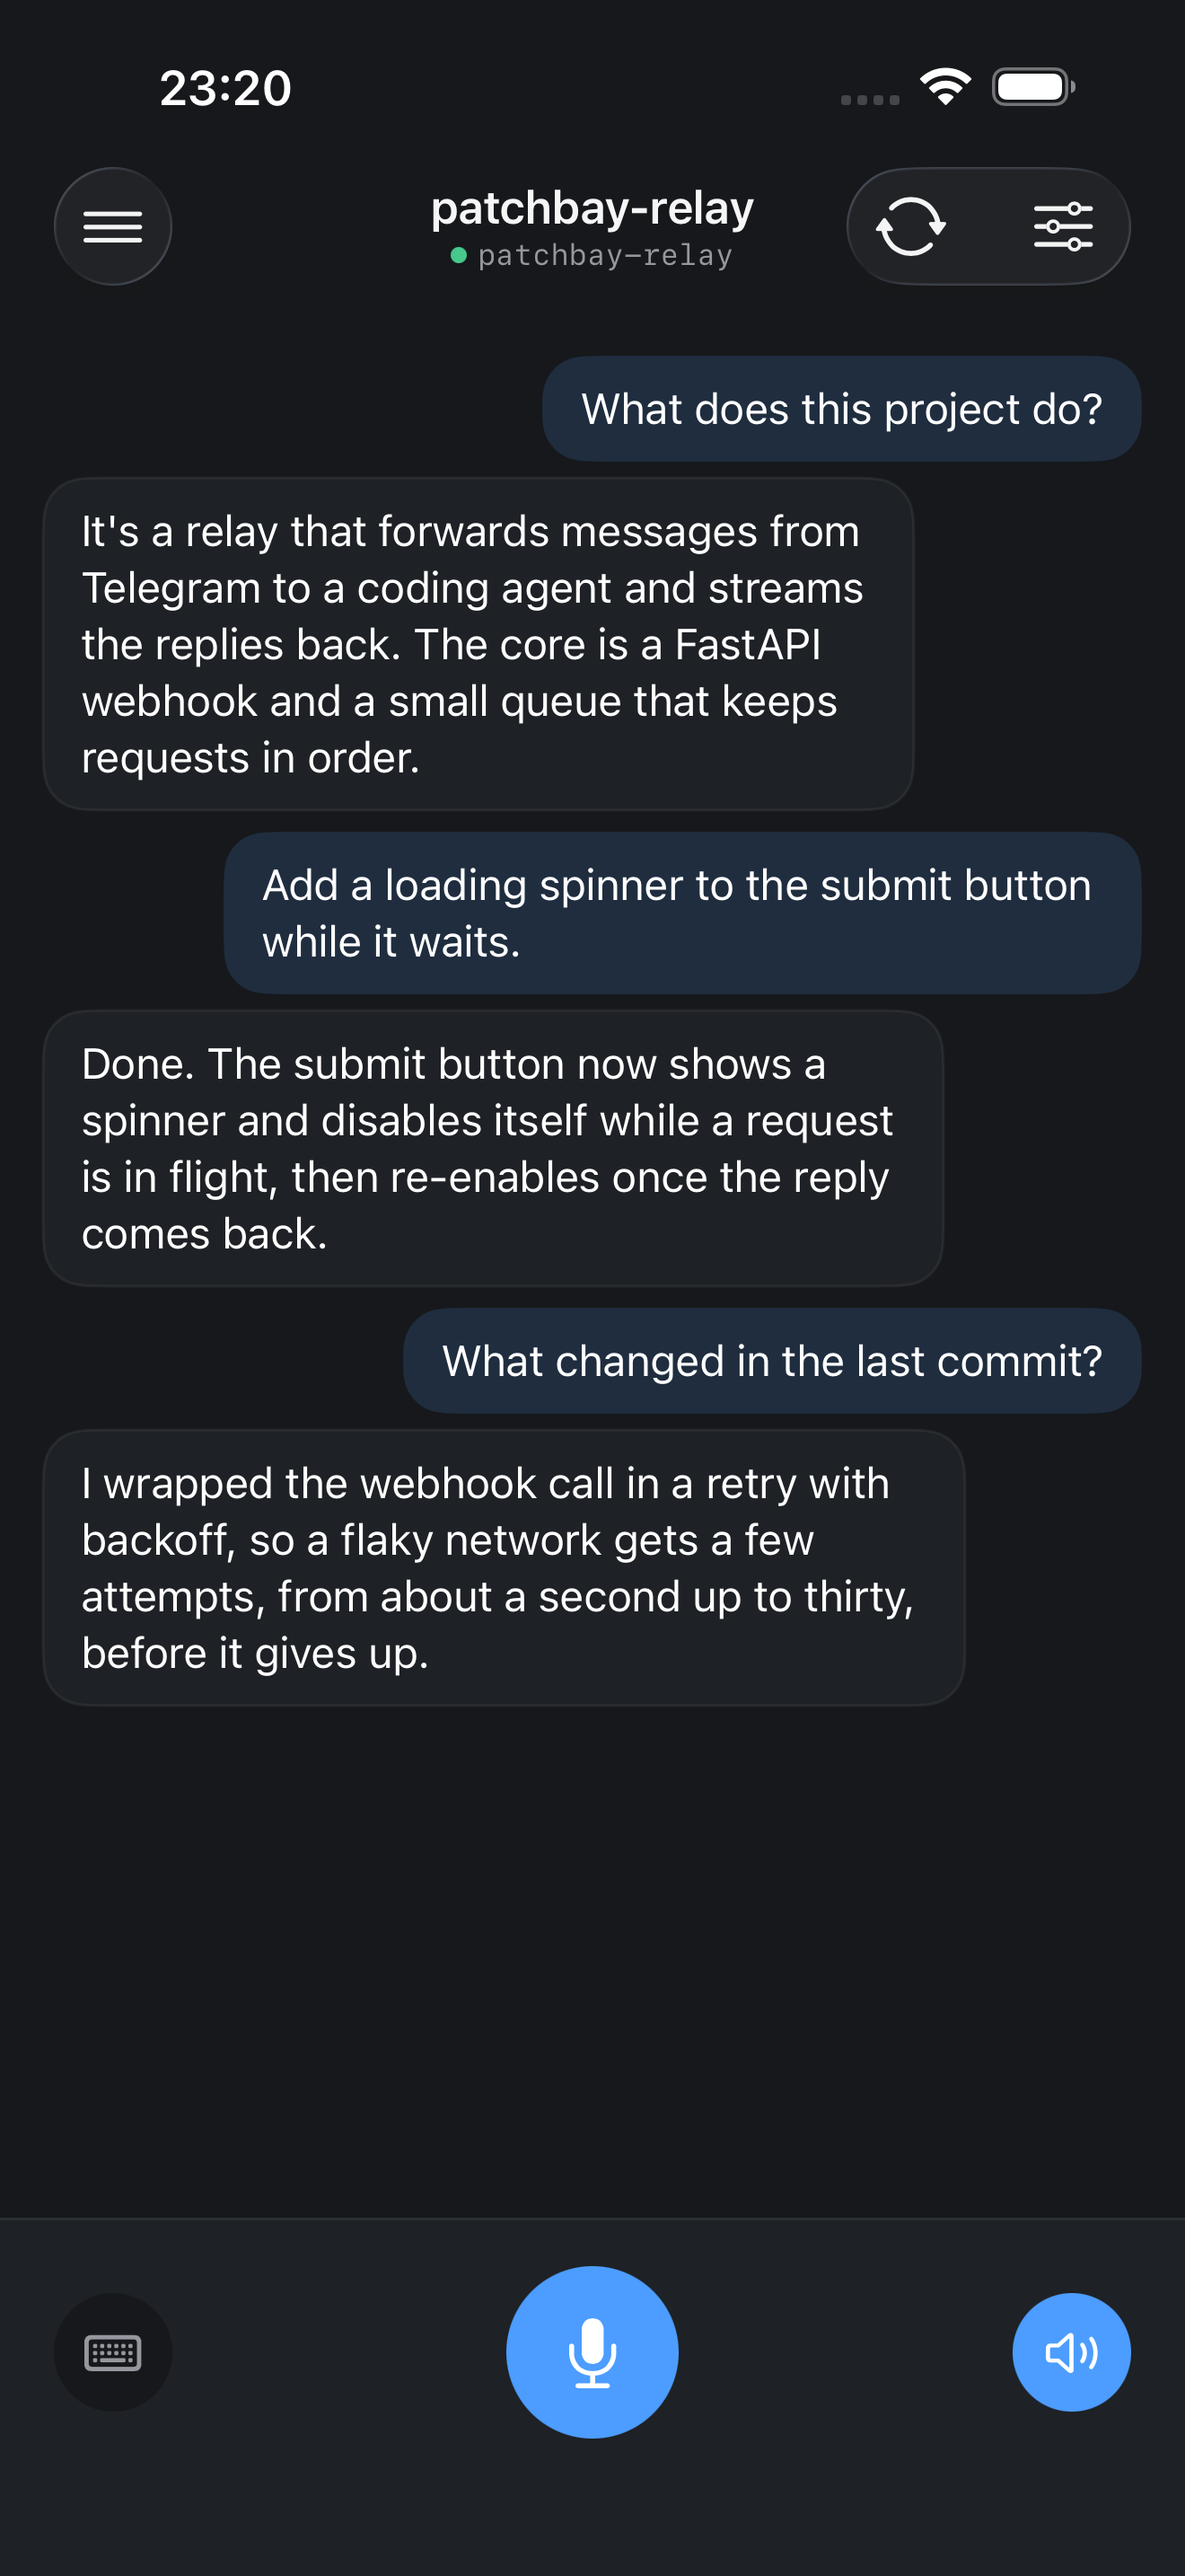
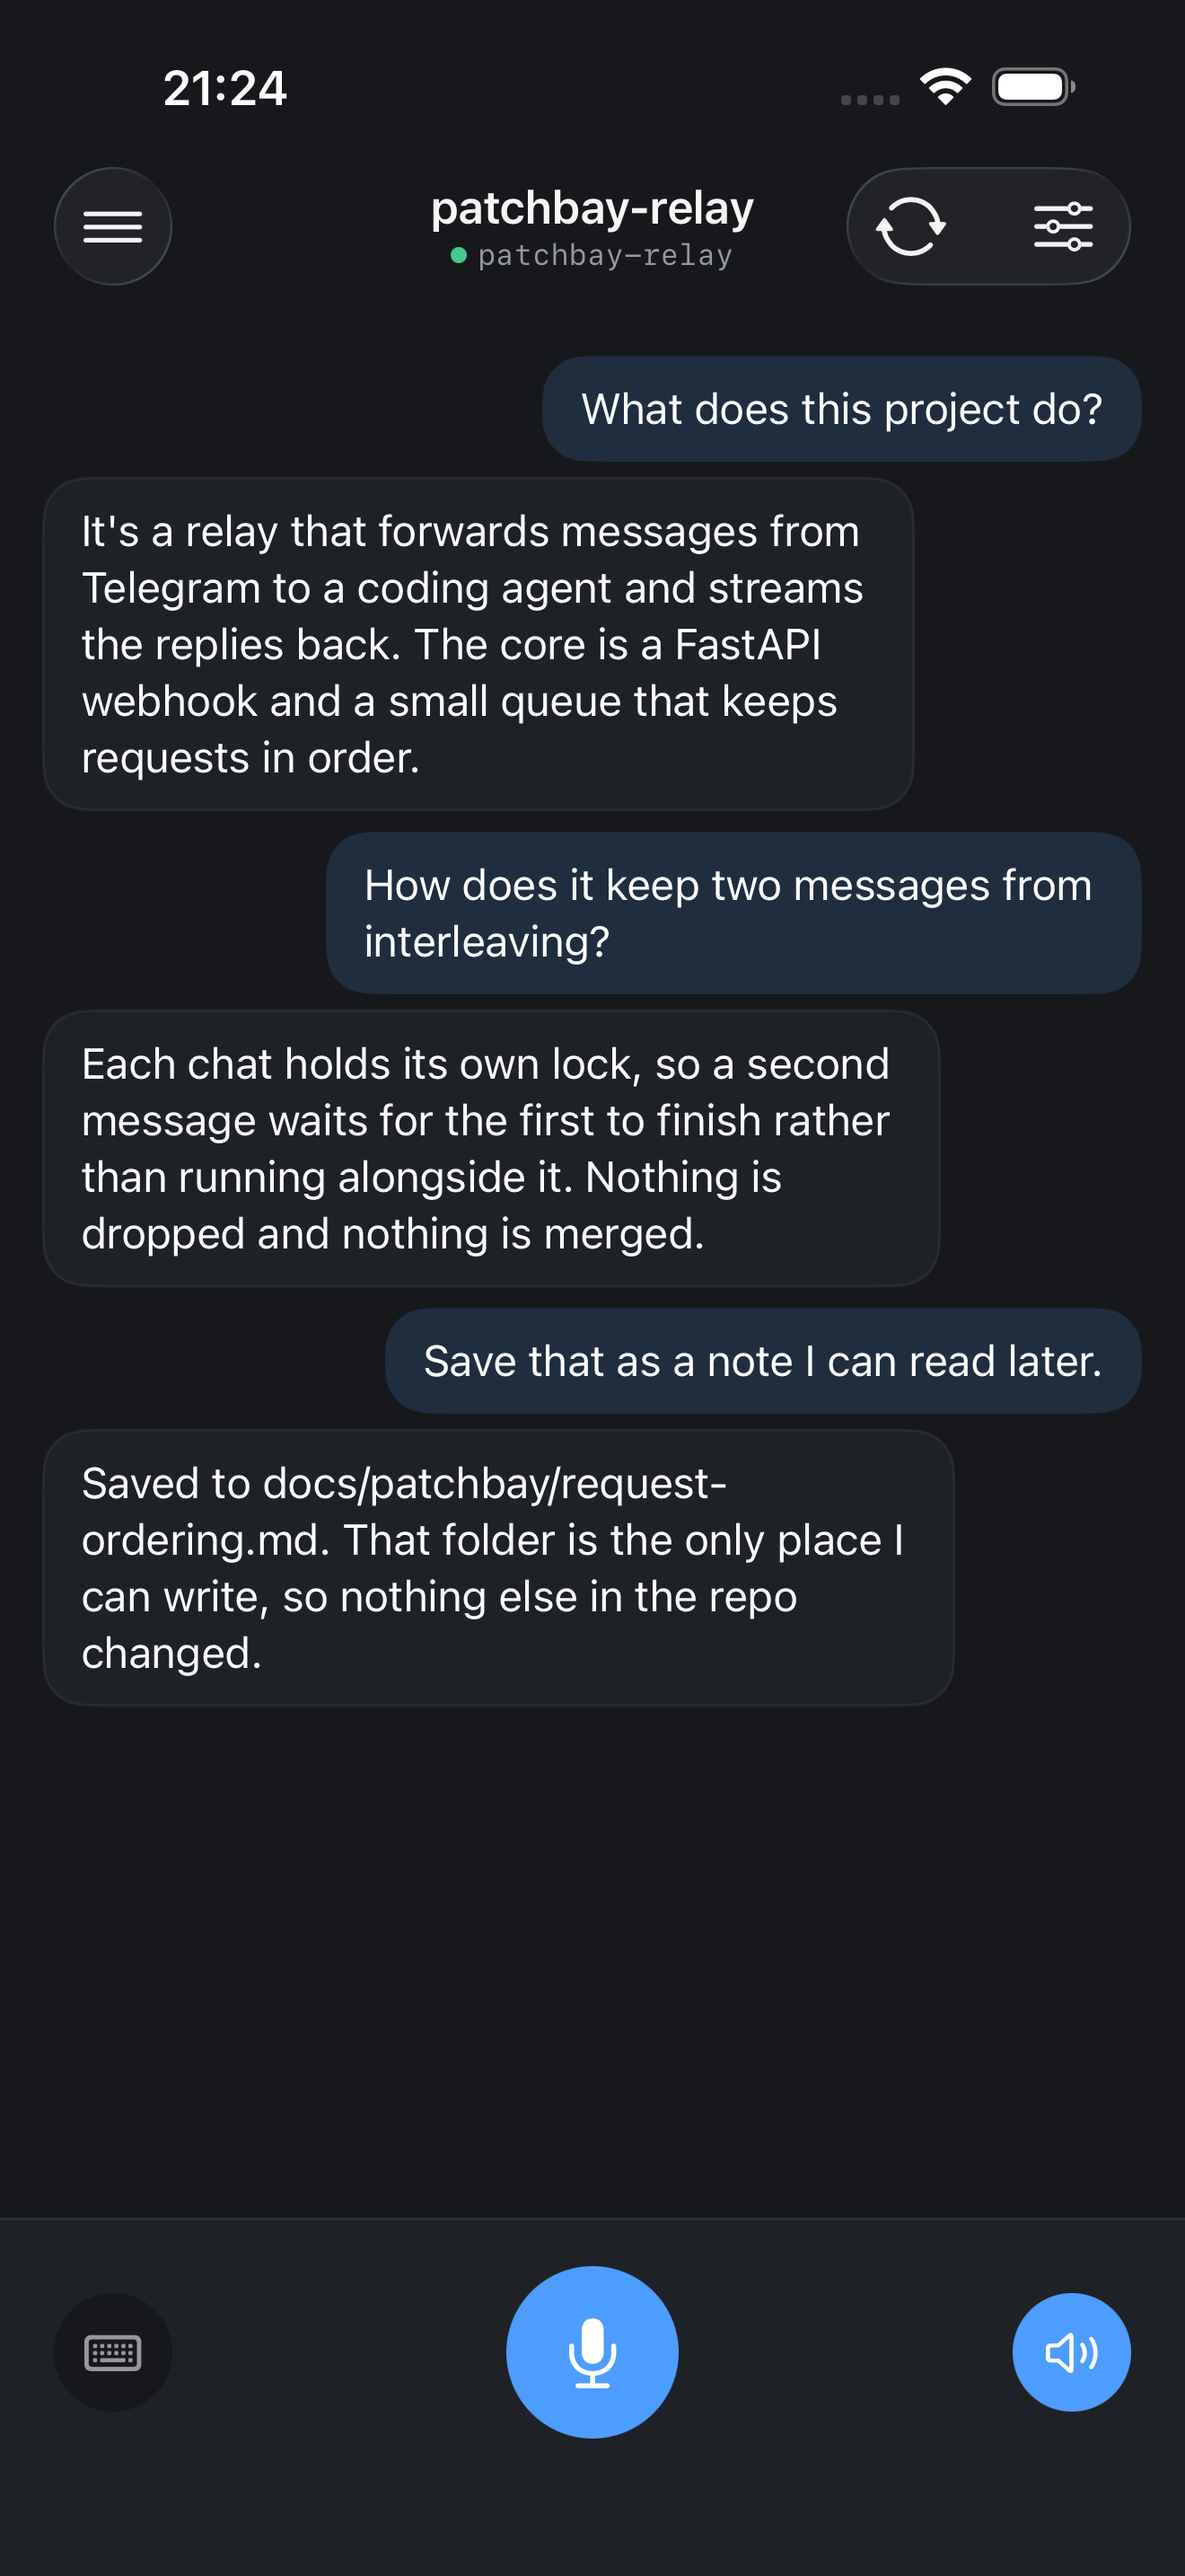
Stop the screenshots claiming it edits code
The talk capture showed the app answering 'Done. I added a block comment
at line one', which is the one thing it cannot do. That image is the top
of this README and the product page on synodic.co.

The mock turns now end on the write boundary instead of contradicting
it: a question about the code, then a note saved to docs/patchbay with
the agent saying that folder is the only place it can write.

inject_turns.py seeded the same UserDefaults key as the app's own mock
and had drifted from it, which is how the wrong pair shipped. The app
seeds itself under --uitesting-mock-turn, so the script is gone.

Changed region(s): [[0.0621, 0.3103, 0.9008, 0.6517], [0.1553, 0.031, 0.2485, 0.0621], [0.8697, 0.3414, 0.9008, 0.3724]]

diff --git a/ios/Sources/PatchbayVoice/Views/TalkViewModel.swift b/ios/Sources/PatchbayVoice/Views/TalkViewModel.swift
@@ -74,10 +74,12 @@ final class TalkViewModel {
         inFlightCount += 1
         Task {
             try? await Task.sleep(nanoseconds: 1_500_000_000)
+            // The captured turn shows the write boundary rather than a code
+            // edit: the agent reads the repo and can only write to its notes.
             _appendTurn(TurnItem(
-                transcript: "What changed in the last commit?",
-                reply: "I wrapped the webhook call in a retry with backoff, so a flaky network gets a few"
-                    + " attempts, from about a second up to thirty, before it gives up.",
+                transcript: "Save that as a note I can read later.",
+                reply: "Saved to docs/patchbay/request-ordering.md. That folder is the only place I can"
+                    + " write, so nothing else in the repo changed.",
             ), chat: chat)
             inFlightCount -= 1
         }

diff --git a/ios/Sources/PatchbayVoice/Managers/ChatManager.swift b/ios/Sources/PatchbayVoice/Managers/ChatManager.swift
@@ -70,9 +70,9 @@ final class ChatManager {
                     + " replies back. The core is a FastAPI webhook and a small queue that keeps requests in order.",
             ),
             TurnItem(
-                transcript: "Add a loading spinner to the submit button while it waits.",
-                reply: "Done. The submit button now shows a spinner and disables itself while a request is in"
-                    + " flight, then re-enables once the reply comes back.",
+                transcript: "How does it keep two messages from interleaving?",
+                reply: "Each chat holds its own lock, so a second message waits for the first to finish"
+                    + " rather than running alongside it. Nothing is dropped and nothing is merged.",
             ),
         ]
         if let data = try? JSONEncoder().encode(history) {
